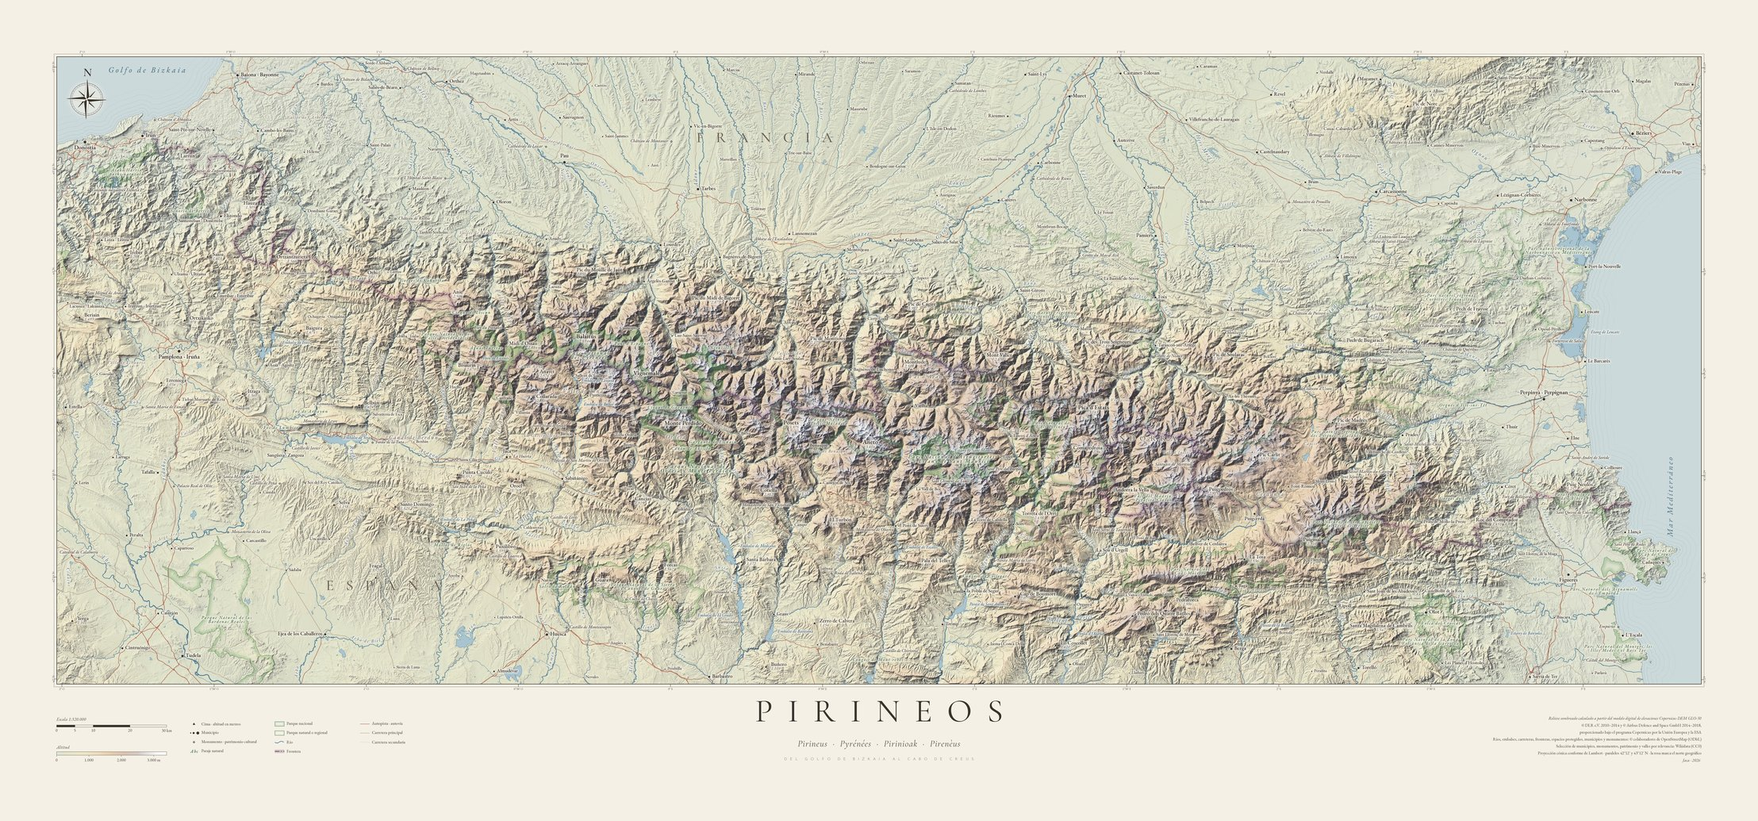
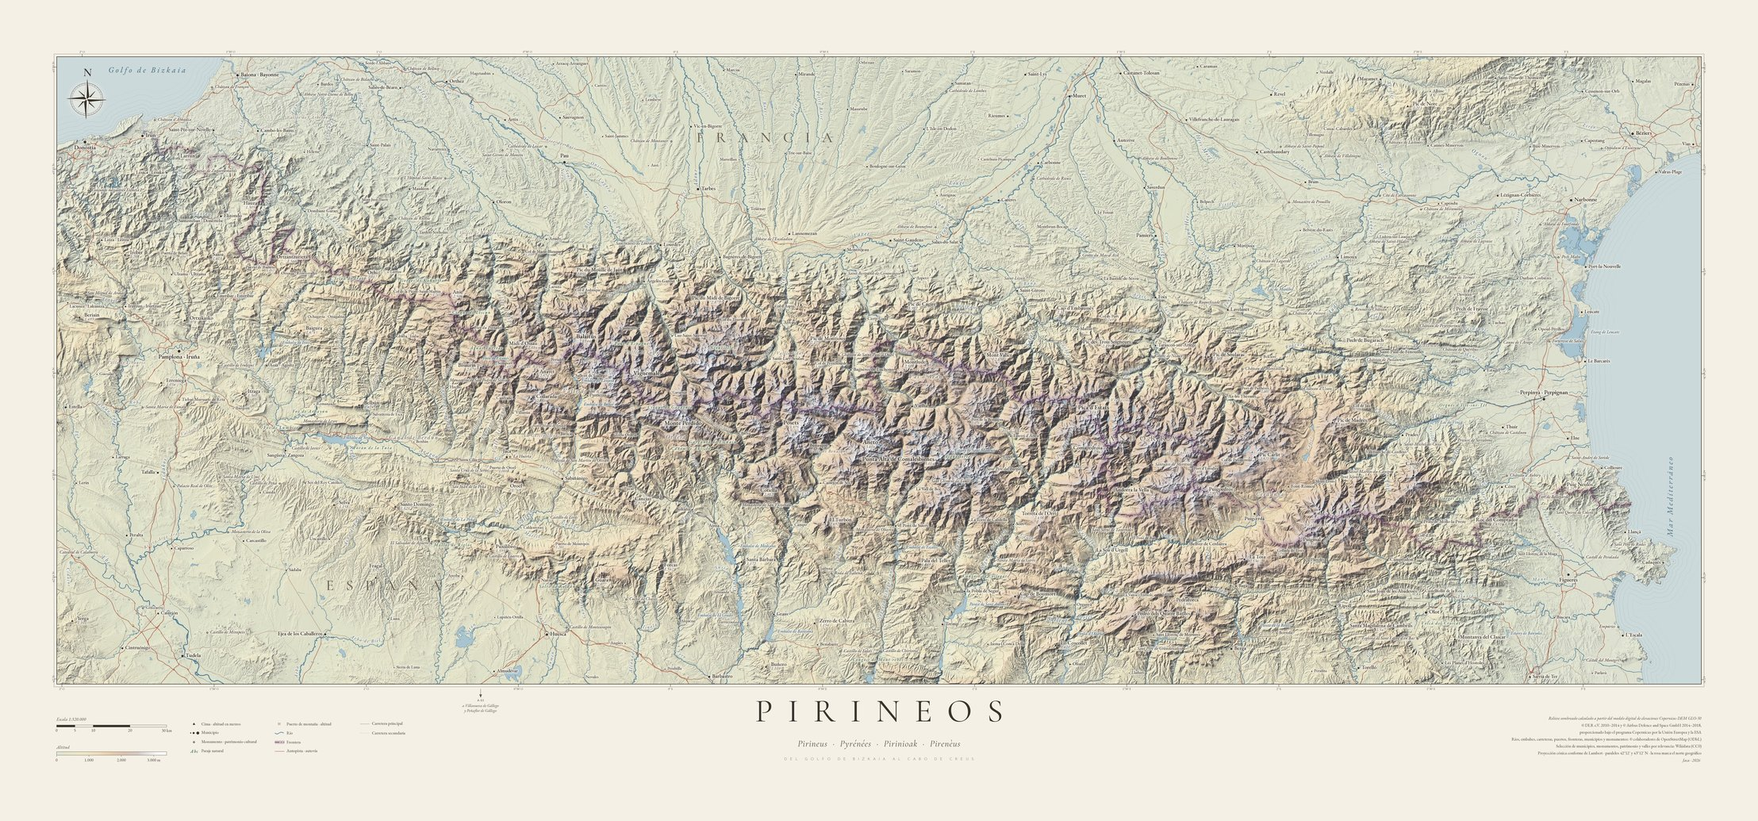
Mapa Pirineos: puertos, más patrimonio, salida A-23 y sin contornos de parques
- Puertos de montaña con signo )( y altitud (collados de OSM): Monrepós y Somport siempre,
  el resto solo donde caben
- Más patrimonio cultural: Lourdes, Cité de Carcassonne, Saint-Lizier, Santa Cruz de la Serós
  y selección de Wikidata más amplia que solo rellena huecos; los monumentos ya elegidos se fijan
- Flecha de salida en el margen: A-23 a Villanueva de Gállego y Peñaflor de Gállego
- Sin contornos ni nombres de parques (demasiado cargado); Aigüestortes como paraje

Claude-Session: https://claude.ai/code/session_01W6ykbCbG3CcBpb4fa33bjx

diff --git a/mapa-pirineo/web/visor.html b/mapa-pirineo/web/visor.html
@@ -116,7 +116,7 @@ main { position: relative; min-height: 0; background: var(--stage); }
 
   const viewer = OpenSeadragon({
     id: "osd",
-    tileSources: [{ tileSource: src("color3"), opacity: 1 }, { tileSource: src("clasico3"), opacity: 0 }],
+    tileSources: [{ tileSource: src("color4"), opacity: 1 }, { tileSource: src("clasico4"), opacity: 0 }],
     showNavigationControl: false,
     showNavigator: true, navigatorPosition: "BOTTOM_RIGHT", navigatorSizeRatio: 0.16,
     navigatorBackground: "transparent", navigatorBorderColor: "transparent",

diff --git a/mapa-pirineo/03_compose.py b/mapa-pirineo/03_compose.py
@@ -13,7 +13,7 @@ import numpy as np
 import rasterio
 from rasterio.warp import transform as tx
 from PIL import Image, ImageDraw, ImageFont, ImageFilter
-from places import PEAKS, TOWNS, AREAS, RIVERS, RESERVOIRS, VALLEYS, POIS, NATURAL, PARKS
+from places import PEAKS, TOWNS, AREAS, RIVERS, RESERVOIRS, VALLEYS, POIS, POIS_WD, NATURAL, PARKS, PASSES, EXITS
 import pickle, math
 import re
 import linework
@@ -46,8 +46,11 @@ OX, OY = MARGIN, MARGIN
 # ---------------- hidrografía, carreteras y frontera (OpenStreetMap)
 sea_mask = np.load(f"work/mask_sea_f{F}.npy")
 # espacios naturales protegidos (contorno OSM, 04b_osm_parks.py), por debajo de ríos y carreteras
-PARK_GEO = pickle.load(open("work/parks.pkl", "rb")) if os.path.exists("work/parks.pkl") else {}
-linework.draw_parks(canvas, OX, OY, F, MW, MH, PARK_GEO, {p[1]: p[2] for p in PARKS}, sea_mask=sea_mask)
+# Desactivado: con los contornos y los nombres largos de los parques la lámina quedaba demasiado cargada.
+DRAW_PARKS = False
+PARK_GEO = pickle.load(open("work/parks.pkl", "rb")) if DRAW_PARKS and os.path.exists("work/parks.pkl") else {}
+if DRAW_PARKS:
+    linework.draw_parks(canvas, OX, OY, F, MW, MH, PARK_GEO, {p[1]: p[2] for p in PARKS}, sea_mask=sea_mask)
 river_geo = linework.draw_all(canvas, OX, OY, F, MW, MH, sea_mask=sea_mask)
 del sea_mask
 
@@ -298,6 +301,12 @@ for name, lon, lat, pos, *rest in POIS:
     small = bool(rest) and rest[0] == 2
     poi_pts.append((name, x + OX, y + OY, pos, small))
     symbols.append(("poi", x + OX, y + OY, 11 if small else 15))
+pass_pts = []
+for name, ele, lon, lat, prio in PASSES:
+    if prio != 1: continue
+    x, y = ll2px(lon, lat)
+    pass_pts.append((name, ele, x + OX, y + OY))
+    symbols.append(("pass", x + OX, y + OY, 16))
 for kind, x, y, rad in symbols:
     rr = (rad + 2) * S
     BOXES.append((x - rr, y - rr, x + rr, y + rr))
@@ -451,6 +460,13 @@ for name, x, y, pos, pop in sorted(town_pts, key=lambda t: -t[4]):
     ov = place_block(point_cands(x, y, pos, (muni_radius(pop) + 16) * S), [(name, fm, INK, 0)], halo_w=8 + 3 * t)
     if ov > 0: print("  aviso: solape en", name, int(ov))
 
+# puertos imprescindibles: nombre y altitud
+fpass, fpass_h = font(EB, 42, 500), font(EB_I, 38, 420)
+for name, ele, x, y in pass_pts:
+    ov = place_block(point_cands(x, y, "r", 30 * S),
+                     [(name, fpass, INK, 0), (f"{ele:,}".replace(",", "."), fpass_h, INK_SOFT, 0)], halo_w=8)
+    if ov > 0: print("  aviso: solape en", name, int(ov))
+
 # monumentos: rombo y nombre en cursiva
 fpoi = font(EB_I, 44, 470)
 fpoi_s = font(EB_I, 36, 470)
@@ -495,7 +511,7 @@ for label, lon, lat in NATURAL:
 
 import shapely
 fpark = {1: font(EB_I, 52, 520), 2: font(EB_I, 44, 480), 3: font(EB_I, 44, 470)}
-for label, pat, kind, lon, lat in PARKS:
+for label, pat, kind, lon, lat in (PARKS if DRAW_PARKS else []):
     g = PARK_GEO.get(pat)
     if g is None:
         print("  sin contorno para", label.replace("\n", " ")); continue
@@ -589,12 +605,22 @@ print("  ríos automáticos:", n_riv)
 
 # ---- monumentos y patrimonio más relevantes (antes que los municipios automáticos)
 n_m = 0
+POI_PLACED = []
 def auto_poi(p):
     x, y = ll2px(p["lon"], p["lat"]); x += OX; y += OY
-    return try_symbol_label("poi", x, y, 15, point_cands(x, y, "r", 30 * S), [(p["name"], fpoi, INK, 0)], 8)
-for p in AUTO.get("pois", []):
-    if p.get("score", p["sl"]) >= 10:
-        n_m += auto_poi(p)
+    ok = try_symbol_label("poi", x, y, 15, point_cands(x, y, "r", 30 * S), [(p["name"], fpoi, INK, 0)], 8)
+    if ok: POI_PLACED.append(p)
+    return ok
+def fixed_poi(name, lon, lat, pos):
+    """Monumento fijado en places.POIS_WD: entra sin pisar nada si puede; si no, se coloca igualmente."""
+    x, y = ll2px(lon, lat); x += OX; y += OY
+    if try_symbol_label("poi", x, y, 15, point_cands(x, y, pos, 30 * S), [(name, fpoi, INK, 0)], 8):
+        return
+    symbols.append(("poi", x, y, 15)); rr = 17 * S; BOXES.append((x - rr, y - rr, x + rr, y + rr))
+    ov = place_block(point_cands(x, y, pos, 30 * S), [(name, fpoi, INK, 0)], halo_w=8)
+    print("  aviso: monumento fijado con solape", name, int(ov))
+for name, lon, lat, pos, stage in POIS_WD:
+    if stage == 1: fixed_poi(name, lon, lat, pos)
 
 # ---- municipios (por relevancia)
 n_t = 0
@@ -648,11 +674,25 @@ for p in AUTO.get("peaks", []):
         n_p += 1
 print("  cimas automáticas:", n_p, "de", len(AUTO.get("peaks", [])))
 
-# ---- resto de monumentos
+# ---- monumentos fijados (tanda 2)
+for name, lon, lat, pos, stage in POIS_WD:
+    if stage == 2: fixed_poi(name, lon, lat, pos)
+
+# ---- puertos de montaña secundarios: solo si caben sin pisar nada
+n_pass = 0
+for name, ele, lon, lat, prio in PASSES:
+    if prio == 1: continue
+    x, y = ll2px(lon, lat); x += OX; y += OY
+    if try_symbol_label("pass", x, y, 16, point_cands(x, y, "r", 30 * S),
+                        [(name, fpass, INK, 0), (f"{ele:,}".replace(",", "."), fpass_h, INK_SOFT, 0)], 8):
+        n_pass += 1; print("  puerto:", name)
+print("  puertos opcionales:", n_pass, "de", sum(1 for p in PASSES if p[4] != 1))
+
+# ---- más patrimonio cultural por toda la lámina: solo donde quepa sin pisar nada
 for p in AUTO.get("pois", []):
-    if p.get("score", p["sl"]) < 10:
-        n_m += auto_poi(p)
-print("  monumentos automáticos:", n_m, "de", len(AUTO.get("pois", [])))
+    n_m += auto_poi(p)
+print("  monumentos automáticos nuevos:", n_m, "de", len(AUTO.get("pois", [])))
+_json.dump(POI_PLACED, open(f"work/pois_placed{SUFFIX}_f{F}.json", "w"), ensure_ascii=False, indent=0)
 
 # ---------------- gratícula en el marco
 def edge_crossings():
@@ -703,6 +743,19 @@ for side, p, val in edge_crossings():
     else:
         y = OY + p; grat.append(((OX + MW, y), (OX + MW + TL, y)))
         put_text(OX + MW + TL + 12 * S, y, fmt(val, "lat"), fg, INK_SOFT, "mm", halo_w=0, rotate=-90)
+
+# ---------------- salidas por el borde: flecha en el margen y destino (p. ej. A-23 hacia Zaragoza)
+exit_marks = []
+fex, fref = font(EB_I, 40, 440), font(SANS, 30, 400)
+for lines_, lon, lat, ref in EXITS:
+    x, _ = ll2px(lon, lat); x += OX
+    y0 = OY + MH + 46 * S                          # bajo el filete exterior del marco
+    exit_marks.append((x, y0))
+    yy = y0 + 104 * S
+    if ref:
+        put_text(x, yy, ref, fref, INK_SOFT, "mt", tracking=2, halo_w=0); yy += 50 * S
+    for t in lines_:
+        put_text(x, yy, t, fex, INK_SOFT, "mt", halo_w=0); yy += 50 * S
 
 # ---------------- cartela inferior
 BY = OY + MH + int(150 * S)
@@ -763,8 +816,9 @@ KX = LX + LG_W + 230 * S
 KY = SB_Y - 40 * S
 ROW = 92 * S
 key_items = [("peak", "Cima · altitud en metros"), ("muni", "Municipio"), ("poi", "Monumento · patrimonio cultural"),
-             ("natlabel", "Paraje natural"),
-             ("park1", "Parque nacional"), ("park2", "Parque natural o regional"), ("river", "Río"), ("border", "Frontera"),
+             ("natlabel", "Paraje natural"), ("pass", "Puerto de montaña · altitud"),
+             *((("park1", "Parque nacional"), ("park2", "Parque natural o regional")) if DRAW_PARKS else ()),
+             ("river", "Río"), ("border", "Frontera"),
              ("major", "Autopista · autovía"), ("primary", "Carretera principal"), ("secondary", "Carretera secundaria")]
 key_lines = []
 for k, (kind, label) in enumerate(key_items):
@@ -777,6 +831,8 @@ for k, (kind, label) in enumerate(key_items):
     elif kind == "muni":                       # tres puntos: ~500, ~10.000 y ~200.000 hab.
         for dx_, pp in ((12, 500), (42, 10000), (84, 200000)):
             symbols.append(("muni", x + dx_ * S, y, muni_radius(pp)))
+    elif kind == "pass":
+        symbols.append(("pass", x + 45 * S, y, 16))
     elif kind == "natlabel":
         put_text(x + 48 * S, y, "Abc", fnat, NAT_INK, "mm", tracking=6, halo_w=0)
     else:
@@ -797,7 +853,7 @@ if STYLE == "color":
         ("Nieve: manto estacional modelado según cota, orientación y pendiente", EB),
     ]
 cred += [
-    ("Ríos, embalses, carreteras, fronteras, espacios protegidos, municipios y monumentos: © colaboradores de OpenStreetMap (ODbL)", EB),
+    ("Ríos, embalses, carreteras, puertos, fronteras, municipios y monumentos: © colaboradores de OpenStreetMap (ODbL)", EB),
     ("Selección de municipios, monumentos, patrimonio y valles por relevancia: Wikidata (CC0)", EB),
     ("Proyección cónica conforme de Lambert · paralelos 42°12′ y 43°12′ N · la rosa marca el norte geográfico", EB),
     ("Jaca · 2026", EB_I),
@@ -819,6 +875,9 @@ draw.rectangle((FR[0] - int(26 * S), FR[1] - int(26 * S), FR[2] + int(26 * S), F
                outline=INK_SOFT, width=max(1, int(2 * S)))
 for a, b in grat:
     draw.line([a, b], fill=INK, width=max(1, int(3 * S)))
+for x, y0 in exit_marks:                       # flecha: trazo fino y punta llena hacia fuera del mapa
+    draw.line([(x, y0), (x, y0 + 62 * S)], fill=INK_SOFT, width=max(1, int(3 * S)))
+    draw.polygon([(x - 13 * S, y0 + 56 * S), (x + 13 * S, y0 + 56 * S), (x, y0 + 88 * S)], fill=INK_SOFT)
 for x0, y0, x1, y1, fill in bar_rects:
     draw.rectangle((x0, y0, x1, y1), fill=INK if fill else PAPER, outline=INK, width=max(1, int(2 * S)))
 # leyenda hipsométrica: muestras del propio relieve sin sombra (paleta del render)
@@ -883,6 +942,13 @@ def ss_symbol(kind, x, y, rad):
                   width=max(1, int(2.5 * S * k)))
         b = a * 0.38
         d.polygon([(c, c - b), (c + b, c), (c, c + b), (c - b, c)], fill=PAPER + (255,))
+    elif kind == "pass":                        # «)(»: dos arcos enfrentados, la carretera pasa por la cintura
+        a = rad * S * k; g = a * 0.30; r_ = a * 1.25; w_ = max(1, int(3.4 * S * k))
+        for sgn in (-1, 1):
+            cx_ = c + sgn * (g + r_)
+            ang0 = 180 - 38 if sgn > 0 else -38
+            d.arc((cx_ - r_, c - r_, cx_ + r_, c + r_), ang0, ang0 + 76, fill=PAPER + (255,), width=w_ + int(3 * S * k))
+            d.arc((cx_ - r_, c - r_, cx_ + r_, c + r_), ang0, ang0 + 76, fill=INK + (255,), width=w_)
     elif kind == "muni":
         a = rad * S * k
         d.ellipse((c - a, c - a, c + a, c + a), fill=INK + (255,), outline=PAPER + (255,),

diff --git a/mapa-pirineo/places.py b/mapa-pirineo/places.py
@@ -166,6 +166,76 @@ POIS = [
     ("Saint-Michel-de-Cuxa",  2.4167, 42.5950, "l"),
     ("Prieuré de Serrabone",  2.5950, 42.6020, "r"),
     ("Abbaye de l'Escaladieu", 0.2569, 43.1100, "r"),
+    # monumentos junto a núcleos rotulados pero separados de su centro
+    ("Sanctuaires de Lourdes", -0.0565, 43.0976, "l"),
+    ("Cité de Carcassonne",   2.3638, 43.2064, "r"),
+    ("Saint-Lizier",          1.1375, 43.0017, "t"),
+    ("Santa Cruz de la Serós", -0.6743, 42.5227, "t"),
+]
+
+# Monumentos elegidos por relevancia en Wikidata (09_select_labels.py) y fijados aquí para que no
+# desaparezcan al ampliar la selección: nombre, lon, lat, posición, tanda (1 antes de los municipios
+# automáticos, 2 después de las cimas automáticas)
+POIS_WD = [
+    ("Château d'Abbadia", -1.7492, 43.3775, "r", 1),
+    ("Catedral de Calahorra", -1.9575, 42.2989, "r", 1),
+    ("Grotte du Mas-d'Azil", 1.3547, 43.0694, "r", 1),
+    ("Cathédrale de Lescar", -0.4333, 43.3328, "r", 1),
+    ("Cathédrale de Lombez", 0.9106, 43.4744, "r", 1),
+    ("Oppidum d'Ensérune", 3.1106, 43.3097, "r", 1),
+    ("Fort du Portalet", -0.5628, 42.8864, "r", 1),
+    ("Château de Montaner", -0.0125, 43.3492, "r", 2),
+    ("Fort de Bellegarde", 2.8592, 42.4586, "r", 2),
+    ("Iglesia de San Martín de Oliván", -0.3023, 42.5758, "r", 2),
+    ("Monastère de Prouilhe", 2.0586, 43.1944, "r", 2),
+    ("Abbaye de Saint-Hilaire", 2.3106, 43.0939, "r", 2),
+    ("Castillo de Lerés", -0.4121, 42.4226, "r", 2),
+    ("Château de Bellocq", -0.9142, 43.5175, "r", 2),
+    ("Cueva de Chaves", -0.1480, 42.2246, "r", 2),
+    ("Château de Lagarde", 1.9357, 43.0506, "r", 2),
+    ("Pont Séjourné", 2.2036, 42.5178, "r", 2),
+    ("Castillo de Chiriveta", 0.6886, 42.1008, "r", 2),
+    ("Abbaye de Villelongue", 2.1669, 43.3056, "r", 2),
+    ("Conjunto megalítico Eteneta I", -1.9639, 43.2000, "r", 2),
+    ("Cathédrale de Rieux", 1.2031, 43.2584, "r", 2),
+    ("Château d'Usson", 2.0875, 42.7356, "r", 2),
+    ("Château de Bidache", -1.1383, 43.4875, "r", 2),
+    ("Castillo de Peña", -1.2996, 42.4943, "r", 2),
+    ("Sant Serni de Tavèrnoles", 1.4581, 42.3828, "r", 2),
+    ("Château de Ruthie", -0.9341, 43.1498, "r", 2),
+    ("Sant Pere del Burgal", 1.1673, 42.5460, "r", 2),
+]
+
+# Puertos de montaña (signo «)(», nombre y altitud; collados de OpenStreetMap): nombre, altitud, lon, lat,
+# prioridad (1 siempre; 2 solo si cabe sin pisar nada, en orden de importancia)
+PASSES = [
+    ("Puerto de Monrepós",     1280, -0.394, 42.354, 1),
+    ("Somport",                1632, -0.525, 42.796, 1),
+    ("Portalet",               1794, -0.418, 42.806, 2),
+    ("Col du Tourmalet",       2115,  0.145, 42.908, 2),
+    ("Port d'Envalira",        2408,  1.719, 42.540, 2),
+    ("Port de la Bonaigua",    2076,  0.982, 42.664, 2),
+    ("Col d'Aubisque",         1709, -0.340, 42.977, 2),
+    ("Puerto de Ibañeta",      1057, -1.324, 43.020, 2),
+    ("Col de Puymorens",       1915,  1.811, 42.560, 2),
+    ("Collada de Toses",       1791,  1.991, 42.336, 2),
+    ("Col de la Pierre-Saint-Martin", 1765, -0.768, 42.969, 2),
+    ("Col d'Aspin",            1489,  0.327, 42.942, 2),
+    ("Col de Peyresourde",     1569,  0.463, 42.802, 2),
+    ("Puerto de Belate",        847, -1.615, 43.049, 2),
+    ("Col de Marie-Blanque",   1035, -0.508, 43.070, 2),
+    ("Port de Pailhères",      2001,  1.992, 42.734, 2),
+    ("Col de Port",            1249,  1.453, 42.899, 2),
+    ("Col de la Perche",       1579,  2.092, 42.496, 2),
+    ("Coll d'Ares",            1512,  2.456, 42.367, 2),
+    ("Col de Jau",             1506,  2.251, 42.688, 2),
+    ("Puerto de Oroel",        1080, -0.562, 42.523, 2),
+]
+
+# Salidas por el borde del mapa hacia lugares de fuera: rótulo (líneas), lon, lat de un punto de la
+# carretera dentro del mapa cerca del borde, referencia de la carretera (OSM)
+EXITS = [
+    (("a Villanueva de Gállego", "y Peñaflor de Gállego"), -0.6243, 42.0121, "A-23"),
 ]
 
 # Embalses y lagunas con nombre: rótulo, lon, lat (punto dentro o junto a la lámina de agua OSM)
@@ -229,6 +299,8 @@ VALLEYS = [
 # Parajes naturales (cursiva verde, sin símbolo, centrada sobre el lugar): rótulo, lon, lat
 # (coordenadas de Wikidata u OpenStreetMap/Nominatim)
 NATURAL = [
+    ("Aigüestortes",           0.9480, 42.5770),
+    ("Forau de la Tuta",      -0.9951, 42.5999),
     ("Cirque de Gavarnie",    -0.0103, 42.6957),
     ("Cañón de Añisclo",       0.0600, 42.5950),
     ("Garganta de Escuaín",    0.1335, 42.5980),

diff --git a/mapa-pirineo/09_select_labels.py b/mapa-pirineo/09_select_labels.py
@@ -26,10 +26,10 @@ from rasterio.enums import Resampling
 from rasterio.warp import transform as tx
 from scipy import ndimage as nd
 import mapbox_vector_tile as mvt
-from places import TOWNS, POIS, PEAKS, VALLEYS, AREAS
+from places import TOWNS, POIS, POIS_WD, PEAKS, VALLEYS, AREAS
 
-D_TOWN, D_POI, D_VALLEY, D_PEAK = 12e3, 13e3, 15e3, 16e3      # metros
-MIN_POP, MIN_POI_SL, MIN_VALLEY_SL = 150, 6, 4
+D_TOWN, D_POI, D_VALLEY, D_PEAK = 12e3, 9e3, 15e3, 16e3      # metros
+MIN_POP, MIN_POI_SL, MIN_VALLEY_SL = 150, 5, 4
 
 src = rasterio.open("work/dem_lcc.tif")
 inv = ~src.transform
@@ -152,7 +152,7 @@ POI_SKIP = re.compile(r"estaci[óo]n|estaci[óo]|\bgare\b|museo|mus[ée]e|museu|
                       r"ayuntamiento|consistorial|h[ôo]tel de ville|mairie|escuela|[ée]cole|colegio|cementerio|"
                       r"cimeti[èe]re|monument aux morts|orgue|[óo]rgano|retablo|retable|\bcruz\b|\bcroix\b|\bcreu\b|"
                       r"calvaire|fuente|fontaine|mercado|march[ée]|lavoir|lavadero|observatori|horno|four|forn|"
-                      r"tren|train|canal|parque|parc|valle|vall\b|zona|camino|chemin|sender|ruta|russe|^h[ôo]tel ", re.I)
+                      r"tren|train|canal|parque|parc|valle|vall\b|zona|camino|chemin|sender|ruta|russe|^h[ôo]tel |forau|\bfoz\b|gorges|cirque", re.I)
 
 def poi_ok(p):
     labs = [p.get(k) for k in ("les", "lca", "lfr", "leu") if p.get(k)]
@@ -160,7 +160,8 @@ def poi_ok(p):
 
 seen_q = set(); pois_raw = []
 for p in wd_rows("wikidata/pois.json"):
-    if p["type"] in POI_TYPES:
+    labs = [p.get(k) for k in ("les", "lca", "lfr", "leu") if p.get(k)]
+    if p["type"] in POI_TYPES and not any(POI_SKIP.search(l) for l in labs):
         p["unesco"] = 0; seen_q.add(p["q"]); pois_raw.append(p)
 if os.path.exists("wikidata/heritage.json"):
     for x in json.load(open("wikidata/heritage.json"))["results"]["bindings"]:
@@ -175,9 +176,10 @@ if os.path.exists("wikidata/heritage.json"):
 for p in pois_raw:
     p["score"] = p["sl"] + 10 * p.get("unesco", 0)
 pois_raw = [p for p in pois_raw if p["score"] >= MIN_POI_SL and inside(p["lon"], p["lat"])]
-poi_seed = xy_list([(p[1], p[2]) for p in POIS])
-pois_raw = [p for p in pois_raw if far_from(all_town_xy, p["lon"], p["lat"], 2500)
-            and far_from(poi_seed, p["lon"], p["lat"], 6000)]
+poi_seed = xy_list([(p[1], p[2]) for p in POIS + POIS_WD])
+# fuera de los núcleos rotulados (los muy relevantes pueden quedar a 1,4 km de su centro)
+pois_raw = [p for p in pois_raw if far_from(all_town_xy, p["lon"], p["lat"], 1400 if p["score"] >= 11 else 2500)
+            and far_from(poi_seed, p["lon"], p["lat"], 4000)]
 pois = greedy(pois_raw, poi_seed, D_POI, key=lambda p: -p["score"])
 def short_poi(n):
     """Acorta nombres largos: «Cathédrale Notre-Dame-de-… de Lescar» -> «Cathédrale de Lescar»."""
@@ -188,9 +190,10 @@ def short_poi(n):
     n = re.sub(r"^(Église|Iglesia|Església) (Saint|Sainte|San|Santa|Sant)", r"\2", n)
     n = re.sub(r"\s*\(.*\)$", "", n)
     return n
+RENAME = {"Iglesia de El Salvador": "El Salvador de Agüero"}      # nombres genéricos de Wikidata
 for p in pois:
     p["name"] = local_label(p, nearest_region(p["lon"], p["lat"]))
-    if p["name"]: p["name"] = short_poi(p["name"])
+    if p["name"]: p["name"] = RENAME.get(short_poi(p["name"]), short_poi(p["name"]))
 pois = [p for p in pois if p["name"] and len(p["name"]) <= 34]
 print("monumentos añadidos:", len(pois), [(p["name"], p["score"]) for p in pois])
 

diff --git a/mapa-pirineo/README.md b/mapa-pirineo/README.md
@@ -21,7 +21,7 @@ Hay dos versiones con la misma cartografía y rotulación:
 | Tono regional del terreno (versión color) | Sentinel-2 cloudless 2023, s2maps.eu, EOX IT Services GmbH (datos Copernicus Sentinel modificados, **CC BY-NC-SA 4.0: solo uso no comercial**) |
 | Nieve (versión color) | Manto estacional modelado sobre el DEM: cota de nieve ~2.250 m en caras norte y ~2.650 m en caras sur, que baja ~400 m más en cumbres y cordales (posición alta en su entorno de ~3 km) sin tocar fondos de valle; sin nieve en paredes de más de ~45°, más en canales |
 | Grosor de los ríos (crece aguas abajo) | Área de cuenca calculada sobre el mismo DEM (`pysheds`) |
-| Ríos, lagos, embalses, ibones, carreteras (autopistas, principales y secundarias), frontera, contornos de parques nacionales y naturales, posición y población de municipios, nombres de embalses | © colaboradores de OpenStreetMap (ODbL), vía teselas OpenMapTiles de OpenFreeMap y Nominatim |
+| Ríos, lagos, embalses, ibones, carreteras (autopistas, principales y secundarias), frontera, puertos de montaña (collados con nombre y altitud), posición y población de municipios, nombres de embalses | © colaboradores de OpenStreetMap (ODbL), vía teselas OpenMapTiles de OpenFreeMap y Nominatim |
 | Cimas | Coordenadas públicas, recolocadas sobre el máximo real del DEM; altitudes oficiales |
 | Selección homogénea de municipios, monumentos, patrimonio, valles y cimas adicionales | Wikidata (CC0): población, nº de Wikipedias y protección patrimonial (BIC, monument historique, Patrimonio Mundial…); cimas OSM que dominan 8 km a la redonda en el DEM; ríos con ≥ 300 km² de cuenca |
 | Rosa de los vientos | Orientada al norte geográfico del meridiano que pasa por ella (en la cónica de Lambert la cuadrícula gira hasta ±2° en los extremos) |
@@ -41,15 +41,15 @@ F=4 ./run_all.sh             # vistas previas rápidas a 1/4 (work/compose*_f4.p
 | 0 | `00_download.sh` | Descarga los tiles del DEM (~650 MB), las teselas OSM (~30 MB) y las fuentes |
 | 1 | `01_prepare_dem.py` | Mosaico y reproyección a cónica conforme de Lambert centrada en 0°43′ E (27 m/píxel) |
 | 2 | `04_osm_hydro_roads.py` | Extrae ríos/agua/carreteras/frontera de OSM y calcula el área de cuenca |
-| 2b | `04b_osm_parks.py` | Une las piezas de los parques nacionales y naturales de la capa «park» de OSM |
+| 2b | `04b_osm_parks.py` | (Opcional, desactivado en la lámina: `DRAW_PARKS` en `03_compose.py`) une los contornos de parques nacionales y naturales de OSM |
 | 3 | `05_download_color.sh` | (color) Descarga WorldCover (~450 MB) y las teselas Sentinel-2 cloudless (~120 MB) |
 | 4 | `06_landcover.py`, `07_satellite.py` | (color) Reproyectan cobertura y satélite al grid del mapa |
 | 5 | `08_color_base.py` | (color) Mezcla en CIELAB la paleta por cobertura con el tono del satélite aclarado, y añade la nieve |
 | 5b | `05b_wikidata.sh`, `09_select_labels.py` | Relevancia desde Wikidata y selección con el mismo criterio en todo el mapa (distancia mínima entre rótulos del mismo tipo) |
 | 6 | `02_render_relief.py [F] [clasico\|color]` | Sombreado multidireccional (luz del NO), oclusión de valles, sombras frías, perspectiva aérea, agua y mar |
-| 7 | `03_compose.py [F] [clasico\|color]` | Lámina final: espacios protegidos, ríos y carreteras (`linework.py`), rótulos, rosa de los vientos, gratícula, cartela, leyenda y créditos |
+| 7 | `03_compose.py [F] [clasico\|color]` | Lámina final: ríos y carreteras (`linework.py`), rótulos, puertos, rosa de los vientos, salidas por el borde, gratícula, cartela, leyenda y créditos |
 
-Toponimia en `places.py`: cimas, municipios (con su población, de OpenStreetMap: el punto y el nombre crecen con ella en escala logarítmica), monumentos y lugares de interés cultural (y alguno personal, como La Huerta), embalses, valles (rotulados a lo largo de su río o de su eje), parajes naturales (cursiva verde) y espacios protegidos (su nombre se coloca dentro del contorno real). Los rótulos se colocan solos en la primera de ocho posiciones alrededor del punto que no pise otro rótulo o símbolo; la posición indicada en `places.py` es solo la preferida. Lo elegido a mano en `places.py` se coloca primero; lo automático solo entra si cabe sin pisar nada.
+Toponimia en `places.py`: cimas, municipios (con su población, de OpenStreetMap: el punto y el nombre crecen con ella en escala logarítmica), monumentos y lugares de interés cultural (y alguno personal, como La Huerta), embalses, valles (rotulados a lo largo de su río o de su eje), parajes naturales (cursiva verde), puertos de montaña (Monrepós y Somport siempre; el resto solo si caben) y salidas por el borde hacia lugares de fuera del mapa (A‑23 hacia Villanueva y Peñaflor de Gállego). Los monumentos ya elegidos quedan fijados en `POIS_WD`; los nuevos de Wikidata solo entran donde quepan sin pisar nada. Los rótulos se colocan solos en la primera de ocho posiciones alrededor del punto que no pise otro rótulo o símbolo; la posición indicada en `places.py` es solo la preferida. Lo elegido a mano en `places.py` se coloca primero; lo automático solo entra si cabe sin pisar nada.
 En `08_color_base.py` se ajustan los colores por cobertura, el peso del satélite y la cota de nieve.
 
 ## Imprimir
